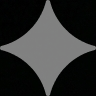
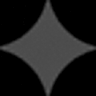
Recalibrate Gemini watermark position and opacity
Gemini moved the watermark further from the corner and lowered its
opacity; the reference assets are re-measured to match, fixing
under-removal and a leftover border artifact.

diff --git a/hermex/gemini_watermark_remover.py b/hermex/gemini_watermark_remover.py
@@ -5,6 +5,10 @@ import numpy as np
 
 _ASSETS_DIR = files("hermex") / "assets"
 
+# The bg_48/bg_96 assets encode the watermark alpha map directly (opacity
+# included). To re-derive after a watermark change, recover alpha from a
+# flat-color sample via (obs - bg)/(255 - bg) using the local background.
+
 _alpha_map_small: np.ndarray | None = None
 _alpha_map_large: np.ndarray | None = None
 
@@ -31,10 +35,12 @@ def _load_assets() -> None:
 
 
 def _get_config(width: int, height: int) -> dict:
+    # `margin` is the gap in pixels between the watermark box and the
+    # bottom-right corner.
     if width > 1024 and height > 1024:
-        return {"margin": 64, "size": 96, "map": _alpha_map_large}
+        return {"margin": 192, "size": 96, "map": _alpha_map_large}
     else:
-        return {"margin": 32, "size": 48, "map": _alpha_map_small}
+        return {"margin": 96, "size": 48, "map": _alpha_map_small}
 
 
 def gemini_remove_watermark(input_path: str, output_path: str) -> None:
